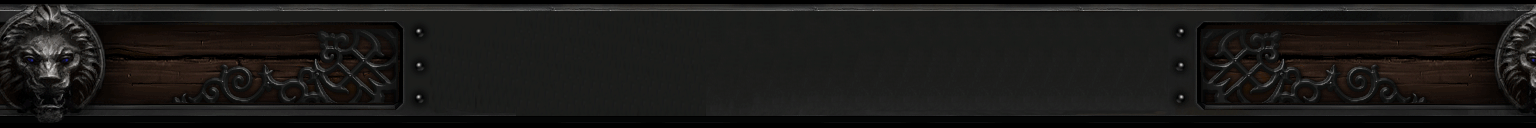
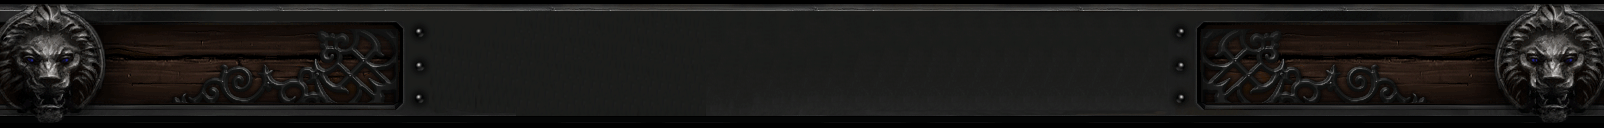
Fixes
- Fixed margin on the right
- Completed top bar image
- Included original readme

diff --git a/chat.html b/chat.html
@@ -100,8 +100,7 @@ body *, * {
 
 #usernameWrap {
 	position: relative;
-	bottom: 0%;
-
+	bottom: -100%;
 }
 
 #passwordWrap {
@@ -318,9 +317,9 @@ li {
 
 .chat-window {
 	position: relative;
-	margin: 20px;
+	margin: 1%;
 	padding: 20px;
-	width: 95%;
+	width: 98%;
 	height: 90%;
 	background-color: rgba(0, 0, 0, 0.4);
 	border-image-slice: 15 15 15 15 fill;
@@ -340,14 +339,6 @@ li {
 	position: fixed;
 }
 
-.input-field input[type=password]:focus+label {
-	color: #2196f3 !important;
-}
-/* label underline focus color */
-.input-field input[type=password]:focus {
-	border-bottom: 1px solid #2196f3 !important;
-	box-shadow: 0 1px 0 0 #2196f3 !important;
-}
 </style>
     <!-- built files will be auto injected -->
     <!--  Scripts-->

diff --git a/Original_Readme_websockify_installation.md b/Original_Readme_websockify_installation.md
@@ -1,0 +1,138 @@
+# PvPGN HTML5 Chat Client
+An HTML5 chat client for PvPGN servers. Uses Materialize CSS and Websockify
+
+DEMO: https://war2.info/demo.html
+
+LOGIN: abcde/abcde or abcdef/abcdef
+
+## Intro
+I wanted to be able to chat on PvPGN servers from my iPhone, but there was not an app for that unfortunately. (Android users have WesChat: https://play.google.com/store/apps/details?id=bnet.pvpgn&hl=en) 
+
+I set out to write my own iPhone app, but I am still working on it. In the meantime it was easier to write this HTML5 app. It won't stay logged in if you lock your phone, won't push notifications, but it still serves its purpose as a simple web client.
+
+## How it works
+Originally I thought that with HTML5 and websockets I could open a raw TCP connection directly from the HTTP user to the PvPGN server, but it turns out that this is not the way websockets actually work. Websockets only allow asynchronous communication between a web client and ***webserver***.
+
+However, I discovered websockify: https://github.com/novnc/websockify
+
+Websockify can act as a bridge from a websocket to a network socket.
+
+This means the web client opens a websocket to your webserver, then websockify proxies that connection to the PvPGN server's telnet port.
+
+I rewrote the example javascript provided by websockify (wsirc.js) to make it compatible with PvPGN telnet, and named it wspvpgn.js.
+
+PvPGN sees all the connections as coming from the webserver, not the actual end-user, which is important to keep in mind. If your PvPGN server limits the number of connections from a single IP, the HTML5 chat client may only be able to serve a few clients at a time unless you change PvPGN configuration.
+
+## Installation Insructions
+### Install Websockify
+    apt-get install git
+    cd ~
+    git clone https://github.com/novnc/websockify.git
+
+
+### Add a cronjob to start Websockify server on reboot
+
+    crontab -e
+      @reboot sleep 30 && /home/***your-username***/websockify/run ***your-websockify-port*** ***your-pvpgn-server:6112*** --cert ***path-to-your-ssl-cert.pem*** --key=***path/to/your/privkey.pem*** -D
+
+
+So for example:
+
+    @reboot sleep 30 && /home/war2.info/websockify/run 6112 server.war2.ru:6112 --cert /etc/letsencrypt/live/war2.info/cert.pem --key=/etc/letsencrypt/live/war2.info/privkey.pem -D
+
+Reboot to trigger the cronjob, or manually run the command above to start websockify running
+
+### Clone PvPGN HTML5 Chat Client to your Web Dir
+
+    cd /var/www (your web dir)
+    git clone https://github.com/reillychase/pvpgn_html5_chat_client.git
+
+### Customize /static/js/websockify/wspvpgn.js
+Change the following code:
+
+    var host = 'war2.info',
+    
+And
+
+    if (server == 'server.war2.ru') {
+      port = '6112';
+      channel = 'war2bne'
+    }
+
+To your custom settings like below:
+    
+    var host = 'your-website-address.com'
+
+    if (server == 'server-name-from-value-of-chat.html-dropdown') {
+      port = 'websockify-port-running-on-your-server';
+      channel = 'channel-to-log-into-on-pvpgn'
+    }
+
+## If using HTTP instead of HTTPS
+If your website is HTTP instead of HTTPS, follow the above instructions but make these changes:
+
+### Change cronjob to start Websockify server on reboot
+
+    crontab -e
+      @reboot sleep 30 && /home/***your-username***/websockify/run ***your-websockify-port*** ***your-pvpgn-server:6112*** -D
+
+
+So for example:
+
+    @reboot sleep 30 && /home/war2.info/websockify/run 6112 server.war2.ru:6112 -D
+
+### Change /static/js/websockify/wspvpgn.js to replace 'wss://' with 'ws:/'
+
+So that this:
+
+        scheme = "wss://", uri;
+
+Becomes this:
+
+        scheme = "ws://", uri;
+        
+## Developer Instructions
+If you have some skills in HTML/CSS/Javascript and would like to contribute, here is some more information:
+
+1. Here is an example of how color is added to messages coming from PvPGN:
+
+This is done in /static/js/websockify/wspvpgn.js. Regex is used to match an incoming message and change it before outputting it to the chatroom window.
+
+    is_here_regex = /^\[(.*) is here\]/g;
+    is_here = is_here_regex.exec(msg);
+
+For example this identifies when "Joining channel:" is seen
+
+    joining_channel_regex = /^Joining channel: (.*)/g;
+    joining_channel = joining_channel_regex.exec(msg);
+
+Then this changes the color to green and outputs it to the chatroom:
+
+    while (joining_channel != null) {
+
+      chatroom = ''
+
+      in_channel = [];
+
+      new_msg = '<span style="color: #00ef00;">Joining channel: ' + joining_channel[1] + '</span>'
+      writeToChannel(new_msg);
+      joining_channel = joining_channel_regex.exec(msg);
+
+      flag = 0;
+    };
+
+### Here are some things that need some work:
+- ~~Unicode (doesn't work currently)~~
+- ~~Only working in Chrome and Safari. IE, Edge, and Firefox give websocket error~~
+- ~~Better handling of failed login (Currently just displays Login failed in chatroom, should stay on Login screen and give failure message)~~
+- Bug on iPhone: When msg box is clicked on, iPhone opens the keyboard which for some reason causes a padding between keyboard and msg box
+- Add client tag to commands automatically. Currently if you do '/channels' for example it won't work because PvPGN is expecting '/channels client-tag' like '/channels w2bn'.
+- When connection is closed without pressing exit, for example by locking iPhone, the black chatroom window will display still instead of login screen
+- ~~Fix colors for whispering~~
+- Unescape server messages (aka " \\' " -> " ' ")
+- Desktop version with fixed chatroom player list
+- Channel name and count at top of chatroom player list
+- Click player to whisper
+- Channels and Games menus
+- Make admin/operator of channel different color (will require checking /admins periodically)
+- Weird glitch on iPhone, page flickers when entering password

diff --git a/README.md b/README.md
@@ -12,6 +12,8 @@ Uses
 ## Installation
 This particular version is intended to be used on Eurobattle.net sites but it can also be used standalone as long as the websockify server on Eurobattle.net is running.
 
+Original insstallation instructions saved in "Original_Readme"
+
 ## Where this works
 Was tested to work properly in
 - Firefox 66.0.3 (64-bit)
@@ -24,7 +26,11 @@ Doesn't work in
 - Improve borders, login button
 - Improve login layout (to always cover whole window)
 - Improve Top bar with properly scaled logo, logout icon
-- Display bmp with transparency (chat icons)
 - Detect admin/channel op
 - Detect icons
+- Display bmp with transparency (if possible)
 - Support for multiple tabs/windows
+
+## Known issues
+- Some borders not displaying in chrome
+- White background when selected previous value for text input in chrome
